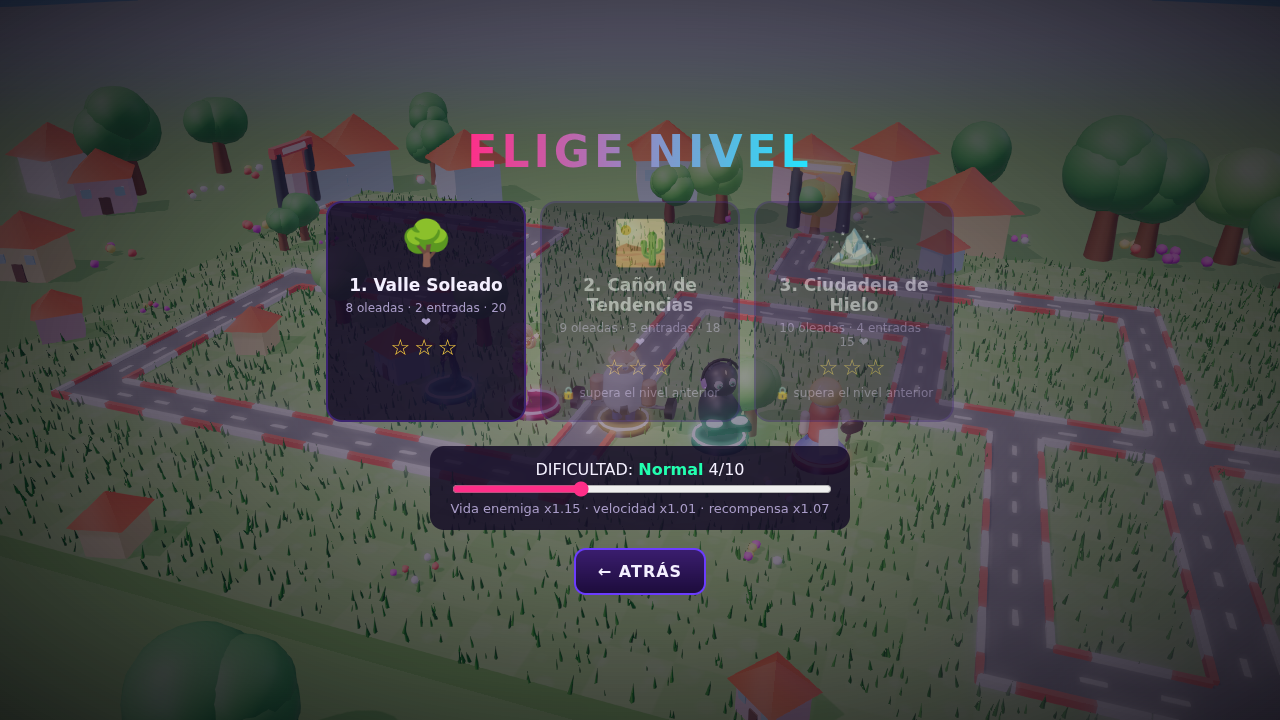
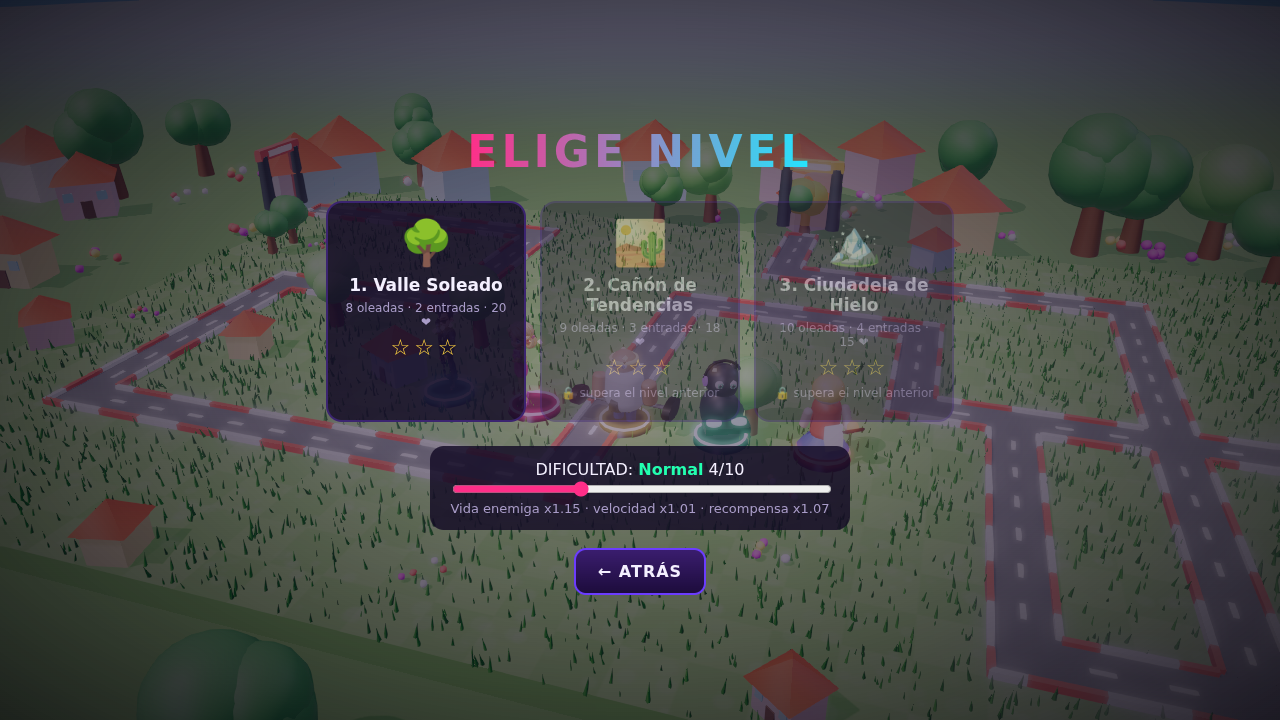
feat: Yandex Games platform adapter and build script
Detects Yandex Games, loads its SDK, takes language from it, reports
LoadingAPI.ready, mirrors saves to cloud, shows interstitials between
levels and a rewarded +150 likes button; mutes audio when hidden.
tools/build/build-yandex.sh packs the upload zip. Mock-SDK check in
game/yandexcheck.mjs.

Story: PROD-003

Claude-Session: https://claude.ai/code/session_01WHcjd1PckEJuNDQSHJNz9j

diff --git a/game/src/i18n.js b/game/src/i18n.js
@@ -8,7 +8,7 @@ export const LANGS = { en: 'English', ru: 'Русский', es: 'Español', pt: 
 
 const STR = {
   en: {
-    'menu.play': '▶ PLAY', 'menu.heroes': '🧬 HEROES', 'menu.howto': '❔ HOW TO PLAY', 'menu.lang': '🌐 LANGUAGE',
+    'hud.reward': '📺 +150 👍 (ad)', 'menu.play': '▶ PLAY', 'menu.heroes': '🧬 HEROES', 'menu.howto': '❔ HOW TO PLAY', 'menu.lang': '🌐 LANGUAGE',
     'menu.footer': 'v0.2 · early build · 3 levels', 'menu.gfx': 'GRAPHICS: {q}', 'gfx.ultra': 'ULTRA 1080p+', 'gfx.high': 'HIGH',
     'levels.title': 'SELECT LEVEL', 'levels.diff': 'DIFFICULTY:', 'back': '← BACK', 'heroes.title': 'REELS HEROES', 'howto.title': 'HOW TO PLAY',
     'howto.list': '<li>Soldiers, tanks and mages march along the roads to your base. Every leak costs you followers ❤.</li><li>Pick a hero at the bottom and click the grass to place them. You pay in likes 👍.</li><li>Click a hero to upgrade (up to level 3) or sell.</li><li>Kill in streaks — the COMBO multiplies rewards.</li><li>The <b>VIRAL MOMENT</b> bar fills with kills — press <b>Q</b> to wipe the screen.</li><li>Sky allies (right side, <b>Z X C</b>): call them onto any point, each has a cooldown.</li><li>Space — next wave early (bonus likes). <b>F</b> — speed. Right mouse / wheel — camera.</li><li>Mages shield their allies, tanks shrug off part of the damage. Hardcore 10/10 is for legends.</li>',
@@ -23,7 +23,7 @@ const STR = {
     'diff.info': 'Enemy HP x{hp} · speed x{sp} · reward x{rw}', 'diff.lives': ' · lives x0.5', 'loading': 'Loading…',
   },
   ru: {
-    'menu.play': '▶ ИГРАТЬ', 'menu.heroes': '🧬 ГЕРОИ', 'menu.howto': '❔ КАК ИГРАТЬ', 'menu.lang': '🌐 ЯЗЫК',
+    'hud.reward': '📺 +150 👍 за рекламу', 'menu.play': '▶ ИГРАТЬ', 'menu.heroes': '🧬 ГЕРОИ', 'menu.howto': '❔ КАК ИГРАТЬ', 'menu.lang': '🌐 ЯЗЫК',
     'menu.footer': 'v0.2 · ранняя сборка · 3 уровня', 'menu.gfx': 'ГРАФИКА: {q}', 'gfx.ultra': 'УЛЬТРА 1080p+', 'gfx.high': 'ВЫСОКАЯ',
     'levels.title': 'ВЫБОР УРОВНЯ', 'levels.diff': 'СЛОЖНОСТЬ:', 'back': '← НАЗАД', 'heroes.title': 'ГЕРОИ РИЛСОВ', 'howto.title': 'КАК ИГРАТЬ',
     'howto.list': '<li>Солдаты, танки и маги идут по дорогам к твоей базе. Каждый прорыв — минус подписчики ❤.</li><li>Выбери героя внизу и кликни по траве — он встанет на позицию. Платишь лайками 👍.</li><li>Кликни по герою — прокачка до 3 уровня или продажа.</li><li>Убивай сериями — КОМБО множит награду.</li><li>Шкала <b>ВИРУСНЫЙ МОМЕНТ</b> заполняется от убийств — жми <b>Q</b> и сноси всех.</li><li>Помощники с неба (справа, <b>Z X C</b>): сбрасываешь в любую точку, у каждого перезарядка.</li><li>Пробел — следующая волна раньше (бонус лайков). <b>F</b> — ускорение. ПКМ/колесо — камера.</li><li>Маги ставят щиты союзникам, танки игнорируют часть урона. Хардкор 10/10 — для легенд.</li>',
@@ -38,7 +38,7 @@ const STR = {
     'diff.info': 'HP врагов x{hp} · скорость x{sp} · награда x{rw}', 'diff.lives': ' · жизни x0.5', 'loading': 'Загрузка…',
   },
   es: {
-    'menu.play': '▶ JUGAR', 'menu.heroes': '🧬 HÉROES', 'menu.howto': '❔ CÓMO JUGAR', 'menu.lang': '🌐 IDIOMA',
+    'hud.reward': '📺 +150 👍 (anuncio)', 'menu.play': '▶ JUGAR', 'menu.heroes': '🧬 HÉROES', 'menu.howto': '❔ CÓMO JUGAR', 'menu.lang': '🌐 IDIOMA',
     'menu.footer': 'v0.2 · versión temprana · 3 niveles', 'menu.gfx': 'GRÁFICOS: {q}', 'gfx.ultra': 'ULTRA 1080p+', 'gfx.high': 'ALTO',
     'levels.title': 'ELIGE NIVEL', 'levels.diff': 'DIFICULTAD:', 'back': '← ATRÁS', 'heroes.title': 'HÉROES DE REELS', 'howto.title': 'CÓMO JUGAR',
     'howto.list': '<li>Soldados, tanques y magos marchan por las carreteras hacia tu base. Cada fuga te cuesta seguidores ❤.</li><li>Elige un héroe abajo y haz clic en el césped para colocarlo. Pagas con likes 👍.</li><li>Haz clic en un héroe para mejorarlo (hasta nivel 3) o venderlo.</li><li>Mata en racha: el COMBO multiplica la recompensa.</li><li>La barra <b>MOMENTO VIRAL</b> se llena con las bajas: pulsa <b>Q</b> y arrasa con todo.</li><li>Aliados del cielo (a la derecha, <b>Z X C</b>): lánzalos sobre cualquier punto; cada uno tiene recarga.</li><li>Espacio: siguiente oleada antes (likes extra). <b>F</b>: velocidad. Botón derecho / rueda: cámara.</li><li>Los magos protegen a sus aliados y los tanques ignoran parte del daño. Hardcore 10/10 es para leyendas.</li>',
@@ -53,7 +53,7 @@ const STR = {
     'diff.info': 'Vida enemiga x{hp} · velocidad x{sp} · recompensa x{rw}', 'diff.lives': ' · vidas x0.5', 'loading': 'Cargando…',
   },
   pt: {
-    'menu.play': '▶ JOGAR', 'menu.heroes': '🧬 HERÓIS', 'menu.howto': '❔ COMO JOGAR', 'menu.lang': '🌐 IDIOMA',
+    'hud.reward': '📺 +150 👍 (anúncio)', 'menu.play': '▶ JOGAR', 'menu.heroes': '🧬 HERÓIS', 'menu.howto': '❔ COMO JOGAR', 'menu.lang': '🌐 IDIOMA',
     'menu.footer': 'v0.2 · versão inicial · 3 fases', 'menu.gfx': 'GRÁFICOS: {q}', 'gfx.ultra': 'ULTRA 1080p+', 'gfx.high': 'ALTO',
     'levels.title': 'ESCOLHA A FASE', 'levels.diff': 'DIFICULDADE:', 'back': '← VOLTAR', 'heroes.title': 'HERÓIS DOS REELS', 'howto.title': 'COMO JOGAR',
     'howto.list': '<li>Soldados, tanques e magos marcham pelas estradas até a sua base. Cada vazamento custa seguidores ❤.</li><li>Escolha um herói embaixo e clique na grama para posicioná-lo. Você paga em likes 👍.</li><li>Clique num herói para evoluir (até o nível 3) ou vender.</li><li>Mate em sequência: o COMBO multiplica a recompensa.</li><li>A barra <b>MOMENTO VIRAL</b> enche com abates: aperte <b>Q</b> e limpe a tela.</li><li>Aliados do céu (à direita, <b>Z X C</b>): chame em qualquer ponto; cada um tem recarga.</li><li>Espaço: próxima onda antes (likes bônus). <b>F</b>: velocidade. Botão direito / roda: câmera.</li><li>Magos protegem aliados com escudos, tanques ignoram parte do dano. Hardcore 10/10 é para lendas.</li>',

diff --git a/game/src/main.js b/game/src/main.js
@@ -11,6 +11,7 @@ import { ALLIES, GRID, HEROES, ENEMIES, LEVELS, difficulty, ULT, COMBO, EARLY_WA
 import { buildHero, setHeroLevel, animateHero, buildEnemy, animateEnemy, preloadModels, addEyes } from './models.js';
 import { Sfx } from './audio.js';
 import { buildWorld, cellToWorld } from './world.js';
+import { initPlatform, gameReady, loadCloud, saveCloud, showInterstitial, showRewarded, hasAds, PLATFORM } from './platform.js';
 import { LANGS, initLang, setLang, getLang, t, heroName, heroDesc, levelName, allyName, allyDesc, diffName, applyStatic } from './i18n.js';
 
 const $ = id => document.getElementById(id);
@@ -19,7 +20,7 @@ const T = GRID.tile;
 // ---------- Save ----------
 const save = (() => { try { return JSON.parse(localStorage.getItem('reelswars') || '{}'); } catch { return {}; } })();
 save.stars ||= {}; save.diff ||= 4;
-const persist = () => { try { localStorage.setItem('reelswars', JSON.stringify(save)); } catch {} };
+const persist = () => { try { localStorage.setItem('reelswars', JSON.stringify(save)); } catch {} saveCloud(save); };
 
 // ---------- Renderer ----------
 // Quality: ULTRA renders at >=1080p internal resolution with GTAO + SMAA; HIGH skips AO.
@@ -527,7 +528,7 @@ $('btnResume').onclick = () => { G.paused = false; $('pause').classList.remove('
 $('btnRestart').onclick = () => { $('pause').classList.remove('active'); clearRun(); startLevel(G_idx()); };
 $('btnQuit').onclick = () => { $('pause').classList.remove('active'); quit(); };
 $('btnUlt').onclick = useUlt;
-$('btnNext').onclick = () => { $('end').classList.remove('active'); const won = G.lives > 0; const i = won ? Math.min(G.idx + 1, LEVELS.length - 1) : G.idx; const next = won && G.idx === LEVELS.length - 1 ? G.idx : i; clearRun(); startLevel(next); };
+$('btnNext').onclick = async () => { $('end').classList.remove('active'); await showInterstitial(() => Sfx.mute(true), () => Sfx.mute(false)); const won = G.lives > 0; const i = won ? Math.min(G.idx + 1, LEVELS.length - 1) : G.idx; const next = won && G.idx === LEVELS.length - 1 ? G.idx : i; clearRun(); startLevel(next); };
 $('btnEndMenu').onclick = () => { $('end').classList.remove('active'); quit(); };
 const G_idx = () => G.idx;
 function clearRun() { for (const b of beamPool.values()) world.remove(b); beamPool.clear(); labels.innerHTML = ''; }
@@ -577,6 +578,13 @@ function menuScene(t) {
 }
 document.addEventListener('click', () => Sfx.unlock(), { once: true });
 
+await initPlatform();
+Object.assign(save, await loadCloud({ ...save }));
+document.body.dataset.platform = PLATFORM;
+document.addEventListener('visibilitychange', () => { Sfx.mute(document.hidden); if (document.hidden && G && !G.over && !G.paused) $('btnPause').click(); });
+// Rewarded ad between waves: +150 likes (only where an ad SDK is present).
+$('btnReward').hidden = !hasAds();
+$('btnReward').onclick = async () => { if (!G || !G.between) return; const wasPaused = G.paused; G.paused = true; const ok = await showRewarded(() => Sfx.mute(true), () => Sfx.mute(false)); G.paused = wasPaused; if (ok) { G.gold += 150; floatText(G.base.position.clone(), '+150 👍', '#ffd23f', 24); updateHud(); } };
 initLang(save.lang); applyStatic(); qLabel();
 const langBtn = $('btnLang');
 const langLabel = () => langBtn.textContent = t('menu.lang') + ': ' + LANGS[getLang()];
@@ -585,5 +593,6 @@ langLabel();
 await preloadModels(HEROES);
 setupMenuScene(); show('menu');
 requestAnimationFrame(frame);
+gameReady();
 // debug hook for automated QA
 window.__game = { cam, get G() { return G; }, startLevel, spawnWave: () => spawnWave(), placeHero: (id, c) => placeHero(id, c), callAlly: (id, c) => callAlly(id, cellToWorld(...c)), useUlt, show };

diff --git a/game/src/platform.js b/game/src/platform.js
@@ -1,0 +1,47 @@
+// Platform adapter: one game build, several storefronts.
+//   - Yandex Games: detected by host (yandex.*, *.games.s3.yandex.net, playhop) or ?platform=yandex.
+//     Loads /sdk.js, takes the player's language from the SDK, reports LoadingAPI.ready(),
+//     mirrors saves to the player's cloud profile and exposes ads/purchases.
+//   - Steam (desktop wrapper): the wrapper sets window.STORE_LANG / window.PLATFORM before boot.
+//   - Web (itch.io, own site, local): no SDK.
+const host = location.hostname;
+const qp = (() => { try { return new URLSearchParams(location.search).get('platform'); } catch { return null; } })();
+export const PLATFORM = window.PLATFORM || qp || (/(^|\.)yandex\.|yandex\.net$|playhop\.com$/.test(host) ? 'yandex' : 'web');
+
+let ysdk = null, player = null;
+
+function loadScript(src) {
+  return new Promise((res, rej) => { const s = document.createElement('script'); s.src = src; s.onload = res; s.onerror = rej; document.head.appendChild(s); });
+}
+
+export async function initPlatform() {
+  if (PLATFORM !== 'yandex') return;
+  try {
+    if (!window.YaGames) await loadScript('/sdk.js');
+    ysdk = await window.YaGames.init();
+    window.STORE_LANG = ysdk.environment?.i18n?.lang; // 'ru', 'en', 'tr', ...
+    try { player = await ysdk.getPlayer({ scopes: false }); } catch { player = null; }
+  } catch (e) { console.warn('Yandex SDK unavailable, running as web build', e); ysdk = null; }
+}
+
+/** Call once the main menu is interactive (Yandex moderation requires it). */
+export function gameReady() { try { ysdk?.features?.LoadingAPI?.ready(); } catch {} }
+
+/** Cloud save: returns remote data merged over local, or local when offline. */
+export async function loadCloud(local) {
+  if (!player) return local;
+  try { const remote = await player.getData(['reelswars']); return remote?.reelswars ? { ...local, ...remote.reelswars } : local; } catch { return local; }
+}
+export function saveCloud(data) { if (player) player.setData({ reelswars: data }).catch(() => {}); }
+
+/** Fullscreen ad between levels (Yandex only). Pauses audio via the callbacks. */
+export function showInterstitial(onPause, onResume) {
+  if (!ysdk) return Promise.resolve();
+  return new Promise(res => ysdk.adv.showFullscreenAdv({ callbacks: { onOpen: () => onPause?.(), onClose: () => { onResume?.(); res(); }, onError: () => { onResume?.(); res(); } } }));
+}
+/** Rewarded video; resolves true when the reward was granted. */
+export function showRewarded(onPause, onResume) {
+  if (!ysdk) return Promise.resolve(false);
+  return new Promise(res => { let ok = false; ysdk.adv.showRewardedVideo({ callbacks: { onOpen: () => onPause?.(), onRewarded: () => { ok = true; }, onClose: () => { onResume?.(); res(ok); }, onError: () => { onResume?.(); res(false); } } }); });
+}
+export const hasAds = () => !!ysdk;

diff --git a/game/src/audio.js b/game/src/audio.js
@@ -21,6 +21,8 @@ function noise(dur, vol = 0.3, lp = 1200) {
 let lastPop = 0;
 export const Sfx = {
   unlock() { ac()?.resume(); },
+  /** Suspend/resume all sound (tab hidden, ads). Required by Yandex Games moderation. */
+  mute(on) { if (!ctx) return; on ? ctx.suspend() : ctx.resume(); },
   click() { tone(880, 0.05, 'square', 0.1); },
   pop() { const n = performance.now(); if (n - lastPop < 40) return; lastPop = n; tone(500 + Math.random() * 400, 0.08, 'triangle', 0.15, 600); },
   snipe() { noise(0.15, 0.25, 4000); tone(1400, 0.1, 'sawtooth', 0.08, -1000); },

diff --git a/game/index.html b/game/index.html
@@ -60,6 +60,7 @@
     <div class="stat">🌊 <b id="wave">0</b>/<span id="waveMax">0</span></div>
     <div class="stat combo" id="comboBox"><span data-i18n="hud.combo">COMBO x</span><b id="combo">1</b></div>
     <div class="spacer"></div>
+    <button class="btn sm" id="btnReward" hidden data-i18n="hud.reward">📺 +150 👍</button>
     <button class="btn sm" id="btnSpeed">x1</button>
     <button class="btn sm" id="btnWave" data-i18n="hud.next">NEXT WAVE ⏭</button>
     <button class="btn sm" id="btnPause">❚❚</button>

diff --git a/production/decisions.md b/production/decisions.md
@@ -5,4 +5,7 @@
 | 2026-10-05 | Платформа: Steam (десктоп-обёртка) + бесплатное веб-демо. Мобильные — позже, отдельным решением. | владелец |
 | 2026-10-05 | Цена в Steam: **$3.79** (заменяет $3.99 из `launch-plan.md`). Скидка на запуске не должна опускать цену ниже $3. | владелец |
 | 2026-10-05 | Игра мультиязычная: язык меняется в меню и выбирается автоматически по месту запуска — `?lang=` в ссылке → выбор игрока → язык Steam-клиента (`window.STORE_LANG`) → язык браузера/ОС → English. Стартовые языки: EN, RU, ES, PT-BR. | владелец |
-| — | Открыто: основной рынок, бюджет, ~400 кредитов на AI-модели, перевод `CLAUDE.md` с Godot на Three.js. | ждёт владельца |
+| — | Открыто: бюджет, ~400 кредитов на AI-модели. | ждёт владельца |
+| 2026-10-05 | Основной рынок маркетинга: **русскоязычный**. | владелец |
+| 2026-10-05 | Дополнительная площадка: **Яндекс Игры**. Там игра бесплатная с рекламой (межуровневая + за награду), позже — внутриигровые покупки через SDK Яндекса. В Steam остаётся платной ($3.79). Сборка: `tools/build/build-yandex.sh` → `dist/reels-wars-yandex.zip`. | владелец |
+| 2026-10-05 | `CLAUDE.md` переведён с Godot на Three.js. | владелец |
